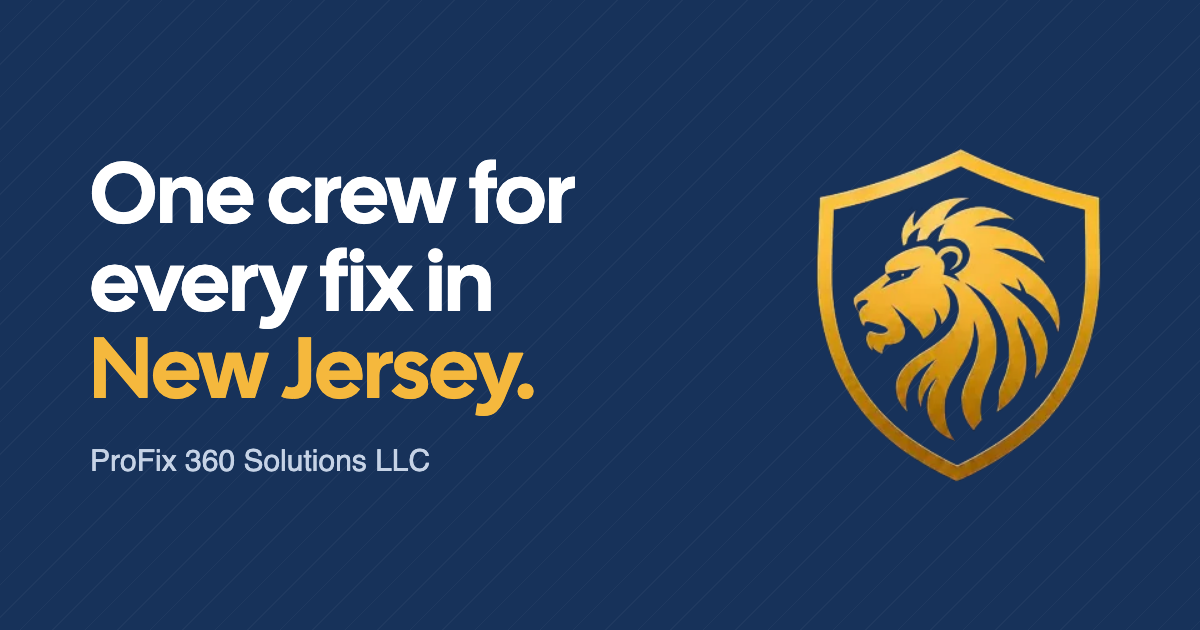
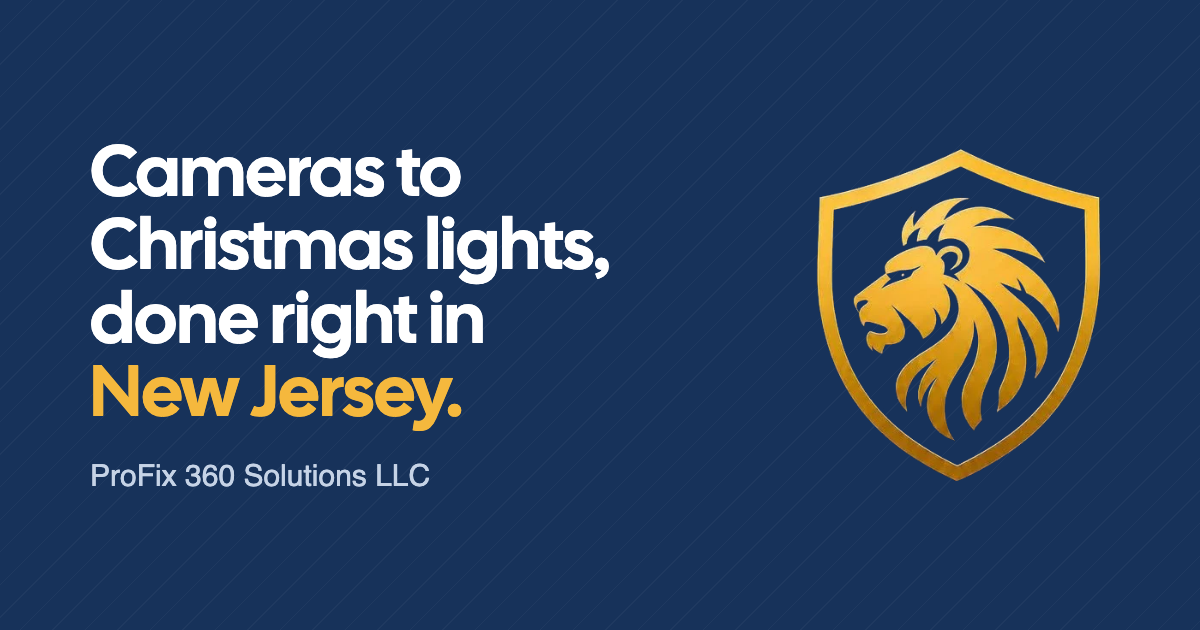
Apply finish review: specific H1, sharper crest from 760px, honest Facebook and step copy, copy message before opening Messenger, fix wordmark styling
Claude-Session: https://claude.ai/code/session_011qctveRLmWWmYAKGFPZJ6t

Changed region(s): [[0.0617, 0.2111, 0.5242, 0.7841]]

diff --git a/index.html b/index.html
@@ -7,7 +7,7 @@
 <meta name="description" content="Security cameras, CAT6 network cabling, interior & exterior painting, LED & low-voltage lighting, handyman repairs and Christmas lights for homes and businesses across New Jersey. Message us for a free estimate.">
 <meta name="theme-color" content="#f4f6fb">
 <meta property="og:type" content="website">
-<meta property="og:title" content="ProFix 360 Solutions LLC · One crew for every fix in New Jersey">
+<meta property="og:title" content="ProFix 360 Solutions LLC · Cameras to Christmas lights, done right in New Jersey">
 <meta property="og:description" content="Cameras, network cable, painting, lighting and repairs for homes, restaurants and offices. Send a few pictures and your town for a free estimate.">
 <meta property="og:url" content="https://10elizabethbell.github.io/profix360Solutions/">
 <meta property="og:image" content="https://10elizabethbell.github.io/profix360Solutions/og.png">
@@ -91,7 +91,7 @@ section{padding:64px 0}
 .brand .mark img{width:30px;height:auto}
 .brand .name{display:flex;flex-direction:column}
 .brand b{font:400 21px/1 var(--display);letter-spacing:.01em}
-.brand span{font:600 12px/1 var(--text);letter-spacing:.08em;white-space:nowrap;text-transform:uppercase;color:var(--soft);margin-top:5px}
+.brand .name span{font:600 12px/1 var(--text);letter-spacing:.08em;white-space:nowrap;text-transform:uppercase;color:var(--soft);margin-top:5px}
 .msg{display:inline-flex;align-items:center;gap:8px;min-height:44px;padding:0 2px;font:400 17px/1 var(--display);text-decoration:none;white-space:nowrap}
 .msg svg{width:20px;height:20px;flex:none;color:var(--gold-ink)}
 
@@ -201,9 +201,10 @@ footer a{display:inline-flex;align-items:center;min-height:44px;color:var(--on-d
   .actions .btn{min-width:240px}
   .cards{grid-template-columns:repeat(3,1fr)}
   .close .btn{width:auto;min-width:280px}
+  .crest{display:block;position:absolute;right:var(--gutter);top:50%;width:clamp(180px,22vw,280px);height:auto;transform:translateY(-50%)}
+  .hero h1{max-width:14ch;font-size:clamp(56px,7.4vw,84px)}
 }
 @media (min-width:1024px){
-  .crest{display:block;position:absolute;right:var(--gutter);top:50%;width:300px;height:auto;transform:translateY(-50%);opacity:.95}
   .services .wrap{display:grid;grid-template-columns:.65fr 1.35fr;column-gap:64px;align-items:start}
   .services .rows{margin-top:0;grid-template-columns:1fr 1fr;column-gap:40px}
   .services .rows li:nth-child(2){border-top:0}
@@ -235,11 +236,11 @@ footer a:hover{color:var(--gold)}
 </head>
 <body>
 <!--
-THESIS: A six-trade NJ outfit that has only ever existed in Facebook posts gets a calm, ordered home that says "one crew for every fix" and turns a visitor into a free-estimate message, using the owner's own process: a few pictures and your town.
+THESIS: A six-trade NJ outfit that has only ever existed in Facebook posts gets a calm, ordered home that says "cameras to Christmas lights, done right" and turns a visitor into a free-estimate message, using the owner's own process: a few pictures and your town.
 OWN-WORLD: The logo's world: a gold lion on a shield. Off-white paper, navy (#17325a) and deep navy (#0d1d36, faint diagonal lines) bands, the lion's gold (#f5b83d) as the one accent (fills only; #7f5600 when it has to be text on light). The shield mark, cut from the logo's black, sits in the header and large in the desktop hero. Cal Sans display, system body at 16/1.7.
 STORY: The visitor sees one crew that does cameras, cable, paint, lighting, repairs and Christmas lights for homes and businesses in New Jersey; believes they'll be treated well (clean work, fair pricing, attention to detail, the owner's words); and sends pictures and their town on Messenger.
-FIRST VIEWPORT: Paper header: shield mark and wordmark left, "Message us" top right (no phone published). Navy hero: eyebrow "Free estimates", "One crew for every fix in New Jersey.", the owner's promise line, two pill buttons (Get a free estimate, See what we do).
-FORM: calm band system without photos (none obtainable: work photos are only in a login-walled group post); the estimate form composes a Messenger message and tells the visitor to attach photos there.
+FIRST VIEWPORT: Paper header: shield mark and wordmark left, "Message us" top right (no phone published). Navy hero: eyebrow "Free estimates", "Cameras to Christmas lights, done right in New Jersey.", the owner's promise line, two pill buttons (Get a free estimate, See what we do).
+FORM: house calm band style (pitch-site default since 2026-10-19), which replaces the concept roll, so no seed key; no photos (none obtainable: work photos are only in a login-walled group post); the estimate form composes a Messenger message and tells the visitor to attach photos there.
 -->
 <svg width="0" height="0" style="position:absolute" aria-hidden="true">
   <symbol id="i-arrow" viewBox="0 0 24 24"><path d="M5 12h14M13 6l6 6-6 6" fill="none" stroke="currentColor" stroke-width="2.6" stroke-linecap="round" stroke-linejoin="round"/></symbol>
@@ -257,14 +258,14 @@ FORM: calm band system without photos (none obtainable: work photos are only in 
   <div class="wrap">
     <div class="hero-copy">
       <span class="eyebrow">Free estimates</span>
-      <h1 id="h1">One crew for every fix in <span class="accent">New Jersey.</span></h1>
+      <h1 id="h1">Cameras to Christmas lights, done right in <span class="accent">New Jersey.</span></h1>
       <p class="promise">From restaurants and offices to homes: clean work, fair pricing, and attention to detail.</p>
       <div class="actions">
         <a class="btn btn-primary" href="#ask">Get a free estimate</a>
         <a class="btn btn-ghost" href="#services">See what we do</a>
       </div>
     </div>
-    <img class="crest" src="shield.webp" width="240" height="274" alt="">
+    <img class="crest" src="shield.webp" width="350" height="400" alt="">
   </div>
 </section>
 
@@ -280,7 +281,7 @@ FORM: calm band system without photos (none obtainable: work photos are only in 
       <li class="rise"><h3>Offices</h3><p>Network cable run tidy and out of sight, so the office just works.</p></li>
     </ul>
     <a class="fb rise" href="https://www.facebook.com/profile.php?id=61593473346111" rel="noopener">
-      <span class="lbl"><svg viewBox="0 0 24 24" fill="currentColor" aria-hidden="true"><path d="M24 12a12 12 0 1 0-13.9 11.9v-8.4h-3V12h3V9.4c0-3 1.8-4.7 4.5-4.7 1.3 0 2.7.2 2.7.2v2.9h-1.5c-1.5 0-2 .9-2 1.9V12h3.4l-.5 3.5h-2.9v8.4A12 12 0 0 0 24 12z"/></svg>See our work on Facebook</span>
+      <span class="lbl"><svg viewBox="0 0 24 24" fill="currentColor" aria-hidden="true"><path d="M24 12a12 12 0 1 0-13.9 11.9v-8.4h-3V12h3V9.4c0-3 1.8-4.7 4.5-4.7 1.3 0 2.7.2 2.7.2v2.9h-1.5c-1.5 0-2 .9-2 1.9V12h3.4l-.5 3.5h-2.9v8.4A12 12 0 0 0 24 12z"/></svg>Follow our work on Facebook</span>
       <span class="arrow" aria-hidden="true"><svg><use href="#i-arrow"/></svg></span>
     </a>
   </div>
@@ -310,7 +311,7 @@ FORM: calm band system without photos (none obtainable: work photos are only in 
       <h2 id="h-ask">Your free estimate</h2>
       <ol class="steps">
         <li><div><b>Send a few pictures.</b><span>Snap the job on your phone.</span></div></li>
-        <li><div><b>Tell us your town.</b><span>Anywhere in New Jersey.</span></div></li>
+        <li><div><b>Tell us your town.</b><span>So we know where the job is.</span></div></li>
         <li><div><b>Get your free estimate.</b><span>We talk through your project and give you a fair price.</span></div></li>
       </ol>
     </div>
@@ -349,7 +350,7 @@ FORM: calm band system without photos (none obtainable: work photos are only in 
         <textarea id="what" name="what" maxlength="600" placeholder="Four cameras around the house, paint two bedrooms…"></textarea>
       </div>
       <button class="btn btn-primary" type="submit"><svg aria-hidden="true"><use href="#i-msgr"/></svg>Send on Messenger</button>
-      <p class="after">Opens Messenger with this written out. Add your pictures there.</p>
+      <p class="after">Opens Messenger with your message written out (we copy it too, in case you need to paste it). Add your pictures there.</p>
       <div class="sent" id="sent" role="status" hidden>
         <p><b>Now add your pictures</b> with the photo button in the chat, then send.</p>
         <p>Messenger didn't open, or the message is empty? Copy it and paste it into a message to us:</p>
@@ -457,6 +458,8 @@ function msgrUrl(text){return CONFIG.MESSENGER+'?text='+encodeURIComponent(text)
     msg+=' Pictures below.';
     out.value=msg;
     sent.hidden=false;
+    // best-effort copy first, so the message survives if Messenger ignores the prefill
+    try{if(navigator.clipboard)navigator.clipboard.writeText(msg).catch(function(){})}catch(err){}
     location.href=msgrUrl(msg);
   });
   document.getElementById('copyBtn').addEventListener('click',function(){
